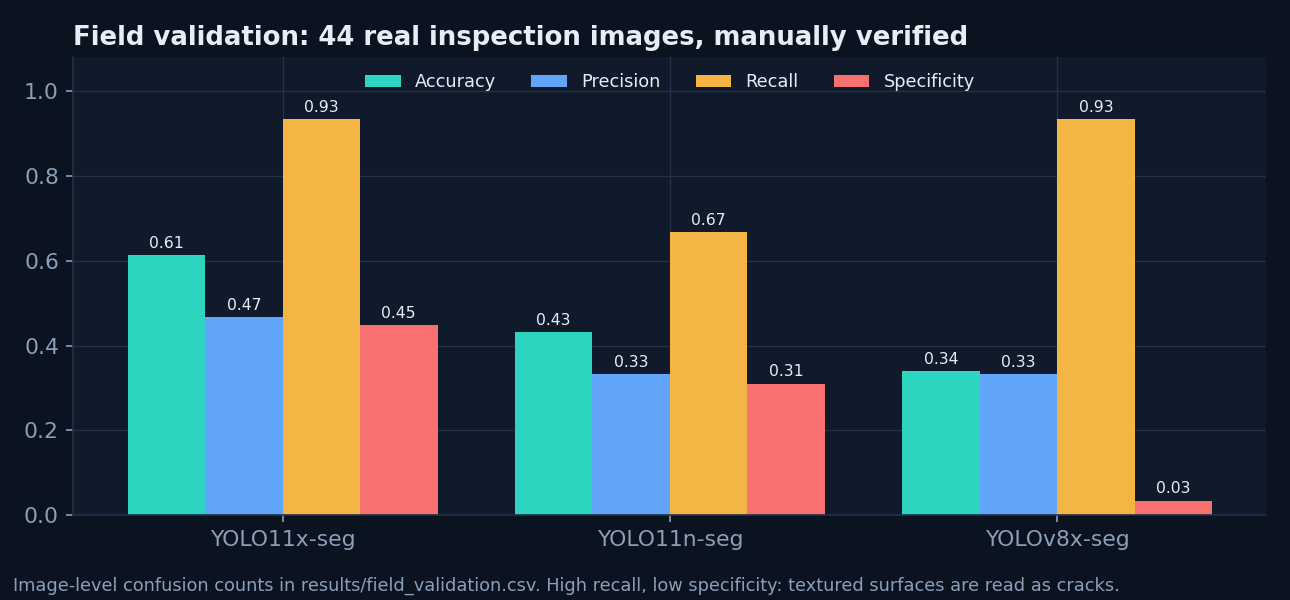
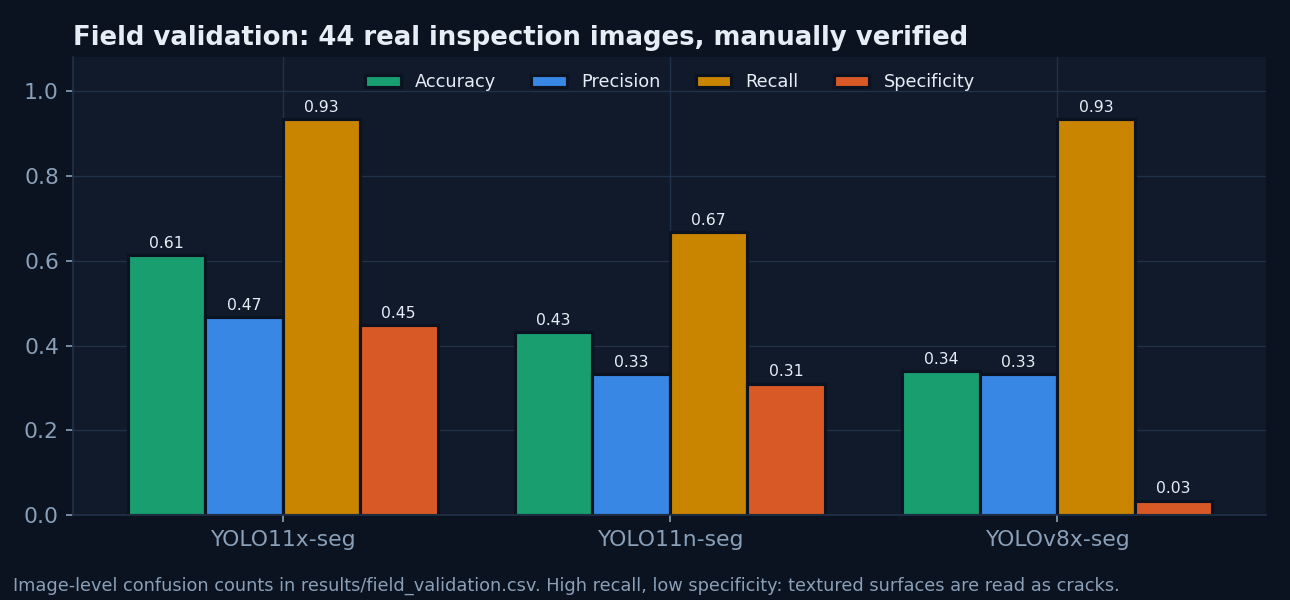
Use the validated categorical palette and bar gaps in all charts
Claude-Session: https://claude.ai/code/session_01K1mX6GFBdRxGwpQtCwwYiG

diff --git a/scripts/make_figures.py b/scripts/make_figures.py
@@ -16,7 +16,7 @@ import matplotlib.pyplot as plt  # noqa: E402
 ROOT = Path(__file__).resolve().parents[1]
 RES, OUT = ROOT / "results", ROOT / "docs" / "images"
 BG, PANEL, GRID, INK, MUTED = "#0b1220", "#101a2b", "#22324a", "#e6edf5", "#8aa0b8"
-TEAL, AMBER, CORAL, BLUE = "#2dd4bf", "#f5b544", "#f87171", "#60a5fa"
+TEAL, AMBER, CORAL, BLUE = "#199e70", "#c98500", "#d95926", "#3987e5"  # validated categorical palette (dark surface)
 
 plt.rcParams.update({
     "figure.facecolor": BG, "axes.facecolor": PANEL, "savefig.facecolor": BG,
@@ -46,7 +46,7 @@ def yolo_comparison() -> None:
               ("box_map50_95", "Box mAP50-95", AMBER), ("mask_map50_95", "Mask mAP50-95", CORAL)]
     for k, (key, label, col) in enumerate(series):
         vals = [float(x[key]) for x in r]
-        bars = ax.bar([i + (k - 1.5) * w for i in xs], vals, w, label=label, color=col)
+        bars = ax.bar([i + (k - 1.5) * w for i in xs], vals, w, label=label, color=col, edgecolor=BG, linewidth=1.5)
         ax.bar_label(bars, fmt="%.3f", fontsize=7.5, color=INK, padding=2)
     ax.set_xticks(list(xs), names)
     ax.set_ylim(0, 1)
@@ -71,7 +71,8 @@ def field_validation() -> None:
     for k, (label, col) in enumerate([("Accuracy", TEAL), ("Precision", BLUE), ("Recall", AMBER),
                                        ("Specificity", CORAL)]):
         vals = [m[k + 1] for m in metrics]
-        bars = ax.bar([i + (k - 1.5) * w for i in range(len(metrics))], vals, w, label=label, color=col)
+        xs_k = [i + (k - 1.5) * w for i in range(len(metrics))]
+        bars = ax.bar(xs_k, vals, w, label=label, color=col, edgecolor=BG, linewidth=1.5)
         ax.bar_label(bars, fmt="%.2f", fontsize=7.5, color=INK, padding=2)
     ax.set_xticks(range(len(metrics)), [m[0] for m in metrics])
     ax.set_ylim(0, 1.08)
